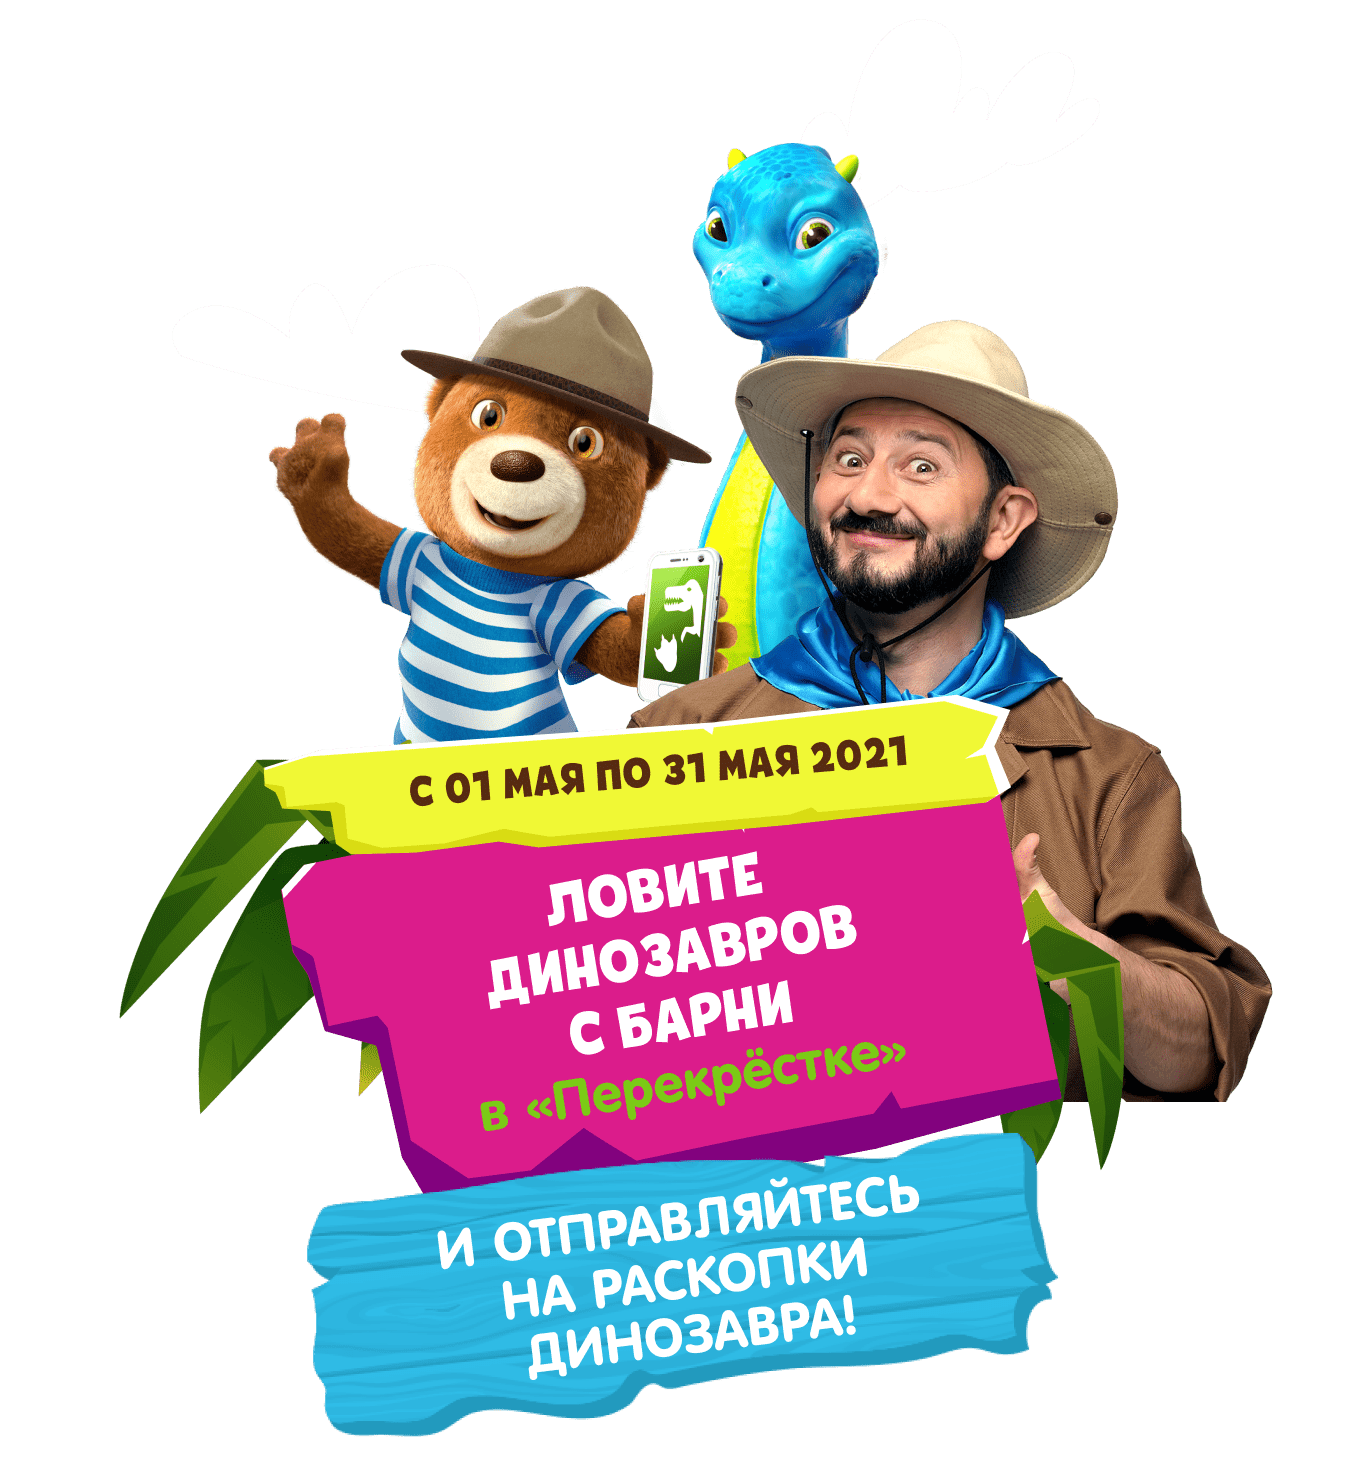
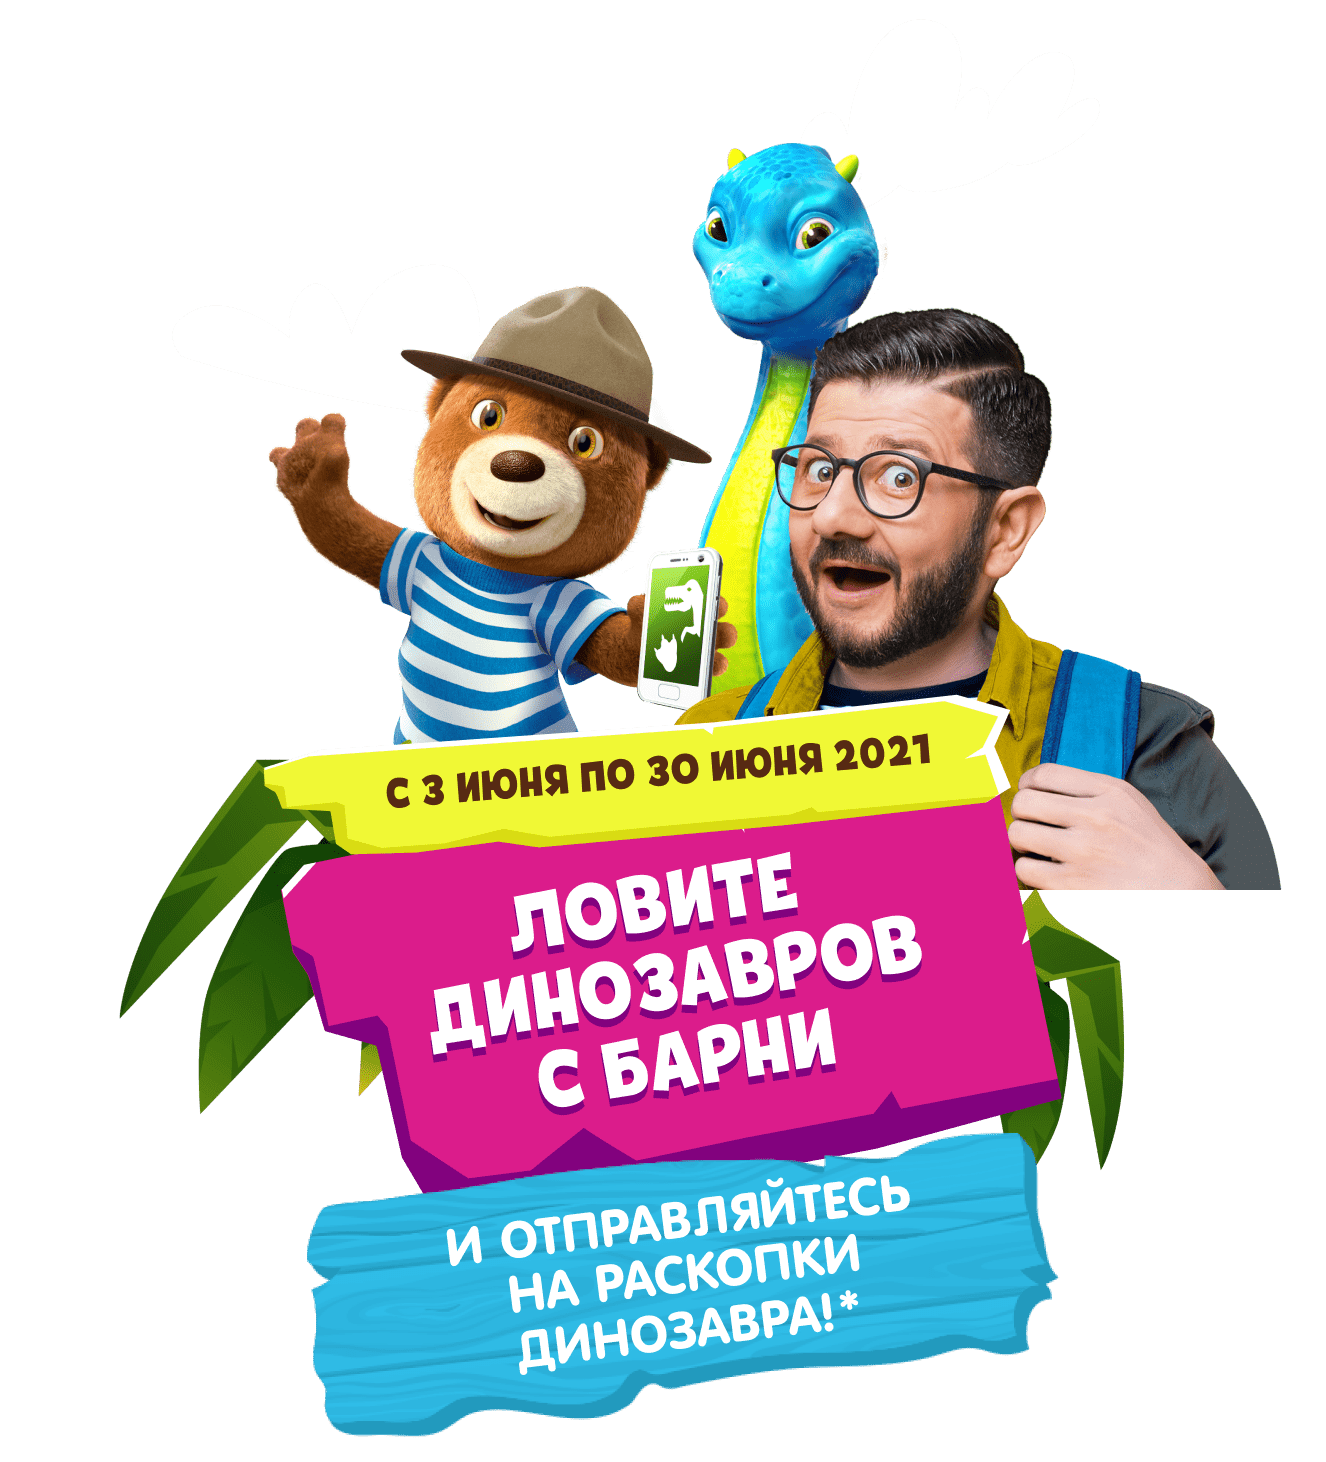
index

diff --git a/css/styles.css b/css/styles.css
@@ -3375,14 +3375,14 @@ a.my-dino-ar-title {
     color: #2EC5F4;
 }
 
-.vr-steps-block {
+.magnit-steps-block {
     position: relative;
     min-height: 560px;
-    margin-bottom: 50px;
+    margin-bottom: 60px;
     padding-top: 230px;
 }
 
-.vr-steps-block::before {
+.magnit-steps-block::before {
     content: '';
     position: absolute;
     top: 0;
@@ -3391,62 +3391,64 @@ a.my-dino-ar-title {
     margin: auto;
     width: 2824px;
     height: 1130px;
-    background: #14592D;
+    background: #CE030A;
     border-radius: 50%;
 }
 
 .paws-main-left {
     position: absolute;
-    top: 260px;
-    left: -1250px;
+    top: 0;
+    left: -730px;
     right: 0;
     margin: auto;
-    width: 644px;
-    height: 554px;
-    background: url(../img/paws-main-left.png) center no-repeat;
+    width: 1174px;
+    height: 1122px;
+    background: url(../img/red-leaf-left.png) center no-repeat;
     background-size: contain;
 }
 
 .paws-main-right {
     position: absolute;
-    top: 240px;
+    top: 50px;
     left: 0;
-    right: -1300px;
+    right: -800px;
     margin: auto;
-    width: 494px;
-    height: 649px;
-    background: url(../img/paws-main-right.png) center no-repeat;
+    width: 1104px;
+    height: 687px;
+    background: url(../img/red-leaf-right.png) center no-repeat;
     background-size: contain;
 }
 
-.vr-steps-block .container {
-    max-width: 1230px;
-}
-
-.vr-steps-title {
+.magnit-steps-title {
     font-family: 'Tobi';
     font-weight: 900;
-    font-size: 70px;
-    line-height: 84px;
+    font-size: 60px;
+    line-height: 72px;
     text-align: center;
     text-transform: uppercase;
-    color: #F0F835;
+    color: #fff;
 }
 
-.vr-steps {
+.magnit-steps-title img {
+    margin-bottom: -10px;
+}
+
+.magnit-steps {
     display: flex;
     justify-content: space-between;
-    max-width: 630px;
+    max-width: 740px;
     width: 100%;
-    margin: 0 auto 50px;
+    margin: 30px auto;
 }
 
-.vr-step {
+.magnit-step {
     position: relative;
-    padding-top: 250px;
+    max-width: 280px;
+    width: 100%;
+    padding-top: 200px;
 }
 
-.vr-step-img {
+.magnit-step-img {
     position: absolute;
     top: 0;
     left: -100px;
@@ -3455,17 +3457,32 @@ a.my-dino-ar-title {
     margin: auto;
 }
 
-.vr-step.step1 .vr-step-img {
-    top: -30px;
-    width: 432px;
+.magnit-step.step1 .magnit-step-img {
+    top: 10px;
+    width: 268px;
 }
 
-.vr-step.step2 .vr-step-img {
-    top: -40px;
-    width: 394px;
+.magnit-step.step2 .magnit-step-img {
+    top: 10px;
+    width: 220px;
 }
 
-.vr-step-num {
+.constructor-animation {
+    position: absolute;
+    top: -50px;
+    right: -250px;
+    width: 269px;
+    transition: all .4s ease;
+    opacity: 0;
+}
+
+.constructor-animation.active {
+    top: -20px;
+    right: -150px;
+    opacity: 1;
+}
+
+.magnit-step-num {
     position: absolute;
     top: 45px;
     left: 0;
@@ -3473,28 +3490,39 @@ a.my-dino-ar-title {
     height: 58px;
 }
 
-.vr-step.step1 .vr-step-num {
-    background: url(../img/vr-step-num1.svg) center no-repeat;
+.magnit-step.step1 .magnit-step-num {
+    background: url(../img/magnit-step-num1.svg) center no-repeat;
     background-size: contain;
 }
 
-.vr-step.step2 .vr-step-num {
-    background: url(../img/vr-step-num2.svg) center no-repeat;
+.magnit-step.step2 .magnit-step-num {
+    background: url(../img/magnit-step-num2.svg) center no-repeat;
     background-size: contain;
 }
 
-.vr-step-title {
+.magnit-step-title {
     position: relative;
+    font-weight: bold;
+    font-size: 32px;
+    line-height: 1.2;
+    text-align: center;
+    text-transform: uppercase;
+    color: #F7E732;
+    margin-bottom: 10px;
+}
+
+.magnit-step-text {
     font-weight: bold;
     font-size: 24px;
     line-height: 1.2;
     text-align: center;
-    text-transform: uppercase;
     color: #FFFFFF;
 }
 
-.vr-step-title span {
-    color: #7AC916;
+.magnit-step-text span {
+    font-weight: normal;
+    font-size: 21px;
+    color: #F7E732;
 }
 
 .steps-block {
@@ -4370,28 +4398,42 @@ a.my-dino-ar-title {
         height: auto;
     }
 
-    .vr-steps-block {
-        padding-top: 310px;
+    .magnit-steps-block {
+        padding-top: 330px;
     }
 
-    .vr-steps-block::before {
+    .magnit-steps-block::before {
         height: 1400px;
     }
 
-    .vr-steps-title {
-        font-size: 46px;
-        line-height: 55px;
+    .magnit-steps-title {
+        font-size: 40px;
+        line-height: 48px;
     }
 
-    .vr-steps {
+    .magnit-steps-title img {
+        width: 224px;
+        margin: 0;
+    }
+
+    .magnit-steps {
         flex-direction: column;
         -ms-align-items: center;
         align-items: center;
         justify-content: center;
+        margin: 10px auto 50px;
     }
 
-    .vr-step-num {
-        left: -150px;
+    .magnit-step.step1 {
+        margin-bottom: 40px;
+    }
+
+    .constructor-animation.active {
+        right: -120px;
+    }
+
+    .magnit-step-num {
+        left: -220px;
         right: 0;
         margin: auto;
     }
@@ -4463,7 +4505,7 @@ a.my-dino-ar-title {
         padding: 40px 0 30px;
     }
 
-    .vr-steps-title {
+    .magnit-steps-title {
         font-size: 40px;
         line-height: 50px;
     }

diff --git a/index.html b/index.html
@@ -27,8 +27,8 @@
 					<a href="index.html" class="logo">
 						<img src="img/logo.svg" alt="">
 					</a>
-					<div class="perekrestok-logo">
-						<img src="img/perekrestok-logo.svg" alt="">
+					<div class="magnit-logo">
+						<img src="img/magnit-logo.svg" alt="">
 					</div>
 					<a href="#!" class="burger"></a>
 					<nav class="menu-links">
@@ -43,29 +43,32 @@
 			</header>
 			<section class="inner-page main-page">
 				<div class="kv"></div>
-				<div class="vr-steps-block">
+				<div class="magnit-steps-block">
 					<div class="paws-main-left desktop-visible"></div>
 					<div class="paws-main-right desktop-visible"></div>
 					<div class="container">
-						<div class="vr-steps-title">Только в «перекрёстке»</div>
-						<div class="vr-steps">
-							<div class="vr-step step1">
-								<div class="vr-step-img">
-									<img src="img/vr-step1.png" alt="">
+						<div class="magnit-steps-title">Только в <img src="img/magnit-logo-text.svg" alt=""> *</div>
+						<div class="magnit-steps">
+							<div class="magnit-step step1">
+								<div class="magnit-step-img">
+									<img src="img/magnit-step1.png" alt="">
 								</div>
-								<div class="vr-step-num"></div>
-								<div class="vr-step-title">загрузите <br>чеки на сайт <br><span>перекрёсток.барни.рф</span></div>
+								<div class="magnit-step-num"></div>
+								<div class="magnit-step-title">Покупайте</div>
+								<div class="magnit-step-text">2 упаковки Барни <br>и регистрируйте чек</div>
 							</div>
-							<div class="vr-step step2">
-								<div class="vr-step-img">
-									<img src="img/vr-step2.png" alt="">
+							<div class="magnit-step step2">
+								<div class="magnit-step-img">
+									<img src="img/magnit-step2.png" alt="">
 								</div>
-								<div class="vr-step-num"></div>
-								<div class="vr-step-title">выиграйте <br><span>vr-очки для игр <br>в виртуальной <br>реальности</span></div>
+								<img src="img/magnit-step2-constructor.png" class="constructor-animation" alt="">
+								<div class="magnit-step-num"></div>
+								<div class="magnit-step-title">Выигрывайте</div>
+								<div class="magnit-step-text">эксклюзивные призы: <br><span>мягкие игрушки Барни, <br>конструкторы и портативные проекторы</span></div>
 							</div>
 						</div>
 						<div class="btn-wrapper main-btn-wrapper">
-							<a href="#!" class="btn main-btn pop-op" data-popup="auth">Загрузить чек <br class="mobile-visible">из Перекрёстка</a>
+							<a href="#!" class="btn main-btn pop-op" data-popup="auth">Загрузить чек <br class="mobile-visible">из Магнита</a>
 						</div>
 					</div>
 				</div>

diff --git a/js/scripts.js b/js/scripts.js
@@ -218,4 +218,14 @@ $(document).ready(function () {
         });
     }
     closeTooltip();
+
+    if($('.constructor-animation').length) {
+        $(window).on('scroll load', function () {
+            var top = $(window).scrollTop();
+            var destination =  $('.magnit-steps-block').offset().top-250;
+            if(top >= destination) {
+                 $('.constructor-animation').addClass('active'); 
+            }
+        });
+    }
 });
